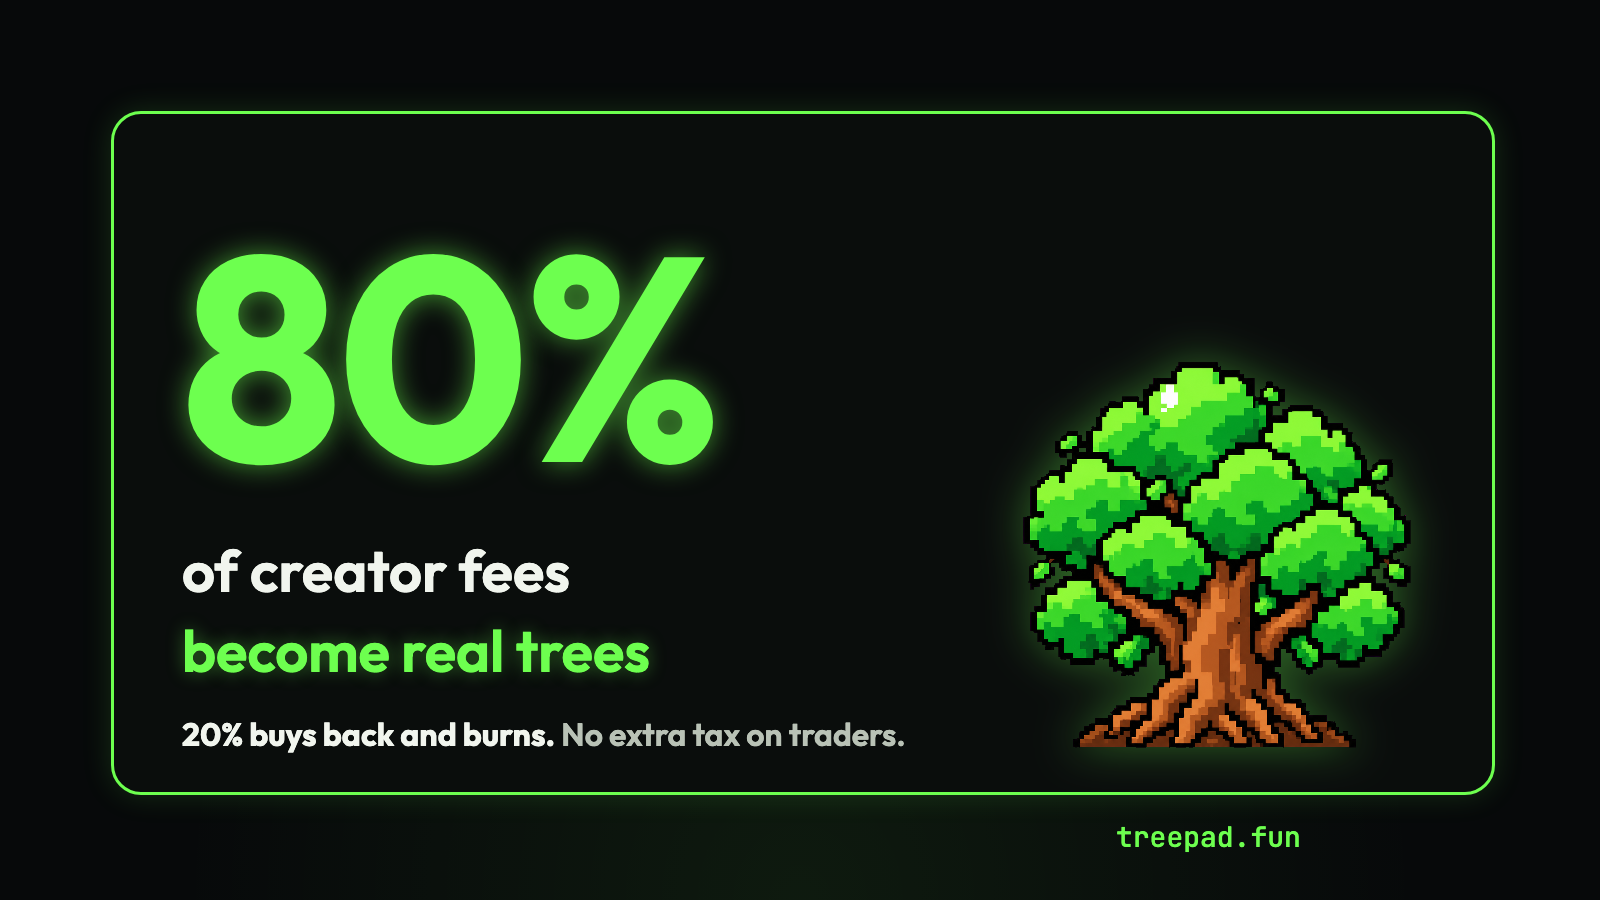
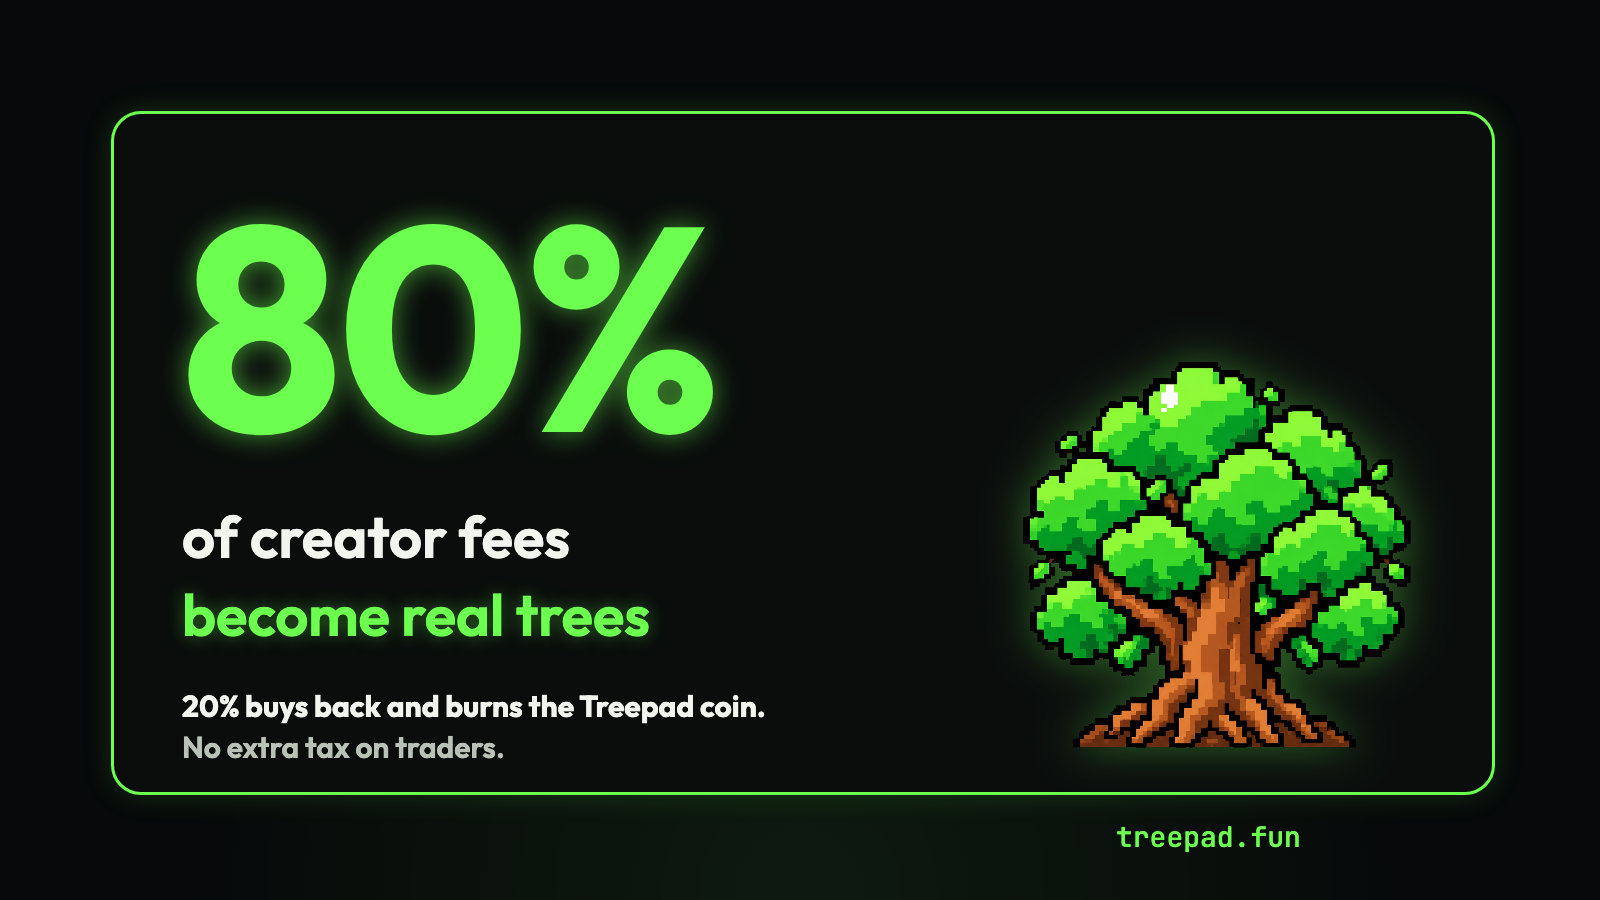
fix: treepad kit says the 20% burns the Treepad coin

Changed region(s): [[0.0938, 0.2178, 0.4688, 0.5289], [0.0938, 0.56, 0.5625, 0.84]]

diff --git a/docs/treepad-launch-kit/index.html b/docs/treepad-launch-kit/index.html
@@ -9,7 +9,7 @@ h1{font-size:32px;margin:8px 0 4px}h2{font-size:22px;margin:32px 0 2px}.when,.to
 figure{overflow:hidden}figure img{width:100%;max-height:300px;object-fit:contain;background:#07090a;display:block;cursor:zoom-in}
 figcaption{display:flex;justify-content:space-between;align-items:center;gap:8px;padding:10px 12px;font-weight:600;font-size:13px;flex-wrap:wrap}small{color:var(--muted);font-weight:400}
 button{font:600 13px inherit;border-radius:9px;padding:7px 12px;cursor:pointer;border:0}.b{background:var(--neon);color:#07090a;align-self:flex-start}.g{background:transparent;color:var(--fg);border:1px solid var(--line)}
-</style></head><body><h1>Treepad launch kit</h1><p class="top">@treepadfun · tap Copy on any tweet or picture. After launch, the proof tweet with the real certificate link is at <a href="https://treepad.fun/launch-proof" target="_blank">treepad.fun/launch-proof</a>. [CA] is the contract address.</p><section><h2>Profile</h2><p class="when">Set up before the first tweet.</p><div class="tw"><div class="card"><div class="lab">Bio (also pump.fun description and DEX Screener info)</div><pre>Coin launchpad on pump.fun. 80% of creator fees plant real trees, 20% buys back and burns. No extra tax on traders. Every trade plants a tree.</pre><button class="b" data-t="Coin launchpad on pump.fun. 80% of creator fees plant real trees, 20% buys back and burns. No extra tax on traders. Every trade plants a tree.">Copy</button></div></div><div class="im"><figure><img src="img/avatar.png" alt="Profile picture" loading="lazy" onclick="window.open(this.src)"><figcaption><span>Profile picture <small>400×400</small></span><span><button class="b ci">Copy image</button> <button class="g dl" data-n="treepad-avatar.png">Download</button></span></figcaption></figure><figure><img src="img/x-header.png" alt="Header" loading="lazy" onclick="window.open(this.src)"><figcaption><span>Header <small>1500×500</small></span><span><button class="b ci">Copy image</button> <button class="g dl" data-n="treepad-x-header.png">Download</button></span></figcaption></figure></div></section><section><h2>Pre-launch</h2><p class="when">Before you go live. Pick one.</p><div class="tw"><div class="card"><div class="lab">Teaser 1</div><pre>Most coins send creator fees to a dev wallet.
+</style></head><body><h1>Treepad launch kit</h1><p class="top">@treepadfun · tap Copy on any tweet or picture. After launch, the proof tweet with the real certificate link is at <a href="https://treepad.fun/launch-proof" target="_blank">treepad.fun/launch-proof</a>. [CA] is the contract address.</p><section><h2>Profile</h2><p class="when">Set up before the first tweet.</p><div class="tw"><div class="card"><div class="lab">Bio (also pump.fun description and DEX Screener info)</div><pre>Coin launchpad on pump.fun. 80% of creator fees plant real trees, 20% buys back and burns our own coin. No extra tax on traders. Every trade plants a tree.</pre><button class="b" data-t="Coin launchpad on pump.fun. 80% of creator fees plant real trees, 20% buys back and burns our own coin. No extra tax on traders. Every trade plants a tree.">Copy</button></div></div><div class="im"><figure><img src="img/avatar.png" alt="Profile picture" loading="lazy" onclick="window.open(this.src)"><figcaption><span>Profile picture <small>400×400</small></span><span><button class="b ci">Copy image</button> <button class="g dl" data-n="treepad-avatar.png">Download</button></span></figcaption></figure><figure><img src="img/x-header.png" alt="Header" loading="lazy" onclick="window.open(this.src)"><figcaption><span>Header <small>1500×500</small></span><span><button class="b ci">Copy image</button> <button class="g dl" data-n="treepad-x-header.png">Download</button></span></figcaption></figure></div></section><section><h2>Pre-launch</h2><p class="when">Before you go live. Pick one.</p><div class="tw"><div class="card"><div class="lab">Teaser 1</div><pre>Most coins send creator fees to a dev wallet.
 
 One launchpad sends them into the ground.
 
@@ -35,39 +35,39 @@ Treepad. Soon.</pre><button class="b" data-t="Mangroves in Kenya. Mahogany in Ni
 
 Treepad. Soon.">Copy</button></div></div><div class="im"><figure><img src="img/prelaunch.png" alt="Teaser" loading="lazy" onclick="window.open(this.src)"><figcaption><span>Teaser <small>1600×900</small></span><span><button class="b ci">Copy image</button> <button class="g dl" data-n="treepad-prelaunch.png">Download</button></span></figcaption></figure><figure><img src="img/other-devs.png" alt="Other launchpads vs Treepad" loading="lazy" onclick="window.open(this.src)"><figcaption><span>Other launchpads vs Treepad <small>1600×900</small></span><span><button class="b ci">Copy image</button> <button class="g dl" data-n="treepad-other-devs.png">Download</button></span></figcaption></figure><figure><img src="img/world-pins.png" alt="Plant anywhere" loading="lazy" onclick="window.open(this.src)"><figcaption><span>Plant anywhere <small>1600×900</small></span><span><button class="b ci">Copy image</button> <button class="g dl" data-n="treepad-world-pins.png">Download</button></span></figcaption></figure></div></section><section><h2>Launch</h2><p class="when">The moment you go live. Pick one.</p><div class="tw"><div class="card"><div class="lab">Launch 1</div><pre>Treepad is live.
 
-Launch a coin on pump.fun through treepad.fun and 80% of its creator fees plant trees. The other 20% buys back and burns. No extra tax on traders.
+Launch a coin on pump.fun through treepad.fun and 80% of its creator fees plant trees. The other 20% buys back and burns the Treepad coin. No extra tax on traders.
 
 Every trade plants a tree.
 
 [CA]</pre><button class="b" data-t="Treepad is live.
 
-Launch a coin on pump.fun through treepad.fun and 80% of its creator fees plant trees. The other 20% buys back and burns. No extra tax on traders.
+Launch a coin on pump.fun through treepad.fun and 80% of its creator fees plant trees. The other 20% buys back and burns the Treepad coin. No extra tax on traders.
 
 Every trade plants a tree.
 
 [CA]">Copy</button></div><div class="card"><div class="lab">Launch 2</div><pre>Every trade plants a tree.
 
-Treepad is live on pump.fun. Pick from 500+ real trees in 22 countries and 80% of your coin's creator fees plant them. 20% buys back and burns. The whole ledger is public.
+Treepad is live on pump.fun. Pick from 500+ real trees in 22 countries and 80% of your coin's creator fees plant them. 20% buys back and burns the Treepad coin. The whole ledger is public.
 
 treepad.fun
 
 [CA]</pre><button class="b" data-t="Every trade plants a tree.
 
-Treepad is live on pump.fun. Pick from 500+ real trees in 22 countries and 80% of your coin's creator fees plant them. 20% buys back and burns. The whole ledger is public.
+Treepad is live on pump.fun. Pick from 500+ real trees in 22 countries and 80% of your coin's creator fees plant them. 20% buys back and burns the Treepad coin. The whole ledger is public.
 
 treepad.fun
 
-[CA]">Copy</button></div></div><div class="im"><figure><img src="img/launch.png" alt="Launch" loading="lazy" onclick="window.open(this.src)"><figcaption><span>Launch <small>1600×900</small></span><span><button class="b ci">Copy image</button> <button class="g dl" data-n="treepad-launch.png">Download</button></span></figcaption></figure><figure><img src="img/launch-square.png" alt="Launch (square)" loading="lazy" onclick="window.open(this.src)"><figcaption><span>Launch (square) <small>1080×1080</small></span><span><button class="b ci">Copy image</button> <button class="g dl" data-n="treepad-launch-square.png">Download</button></span></figcaption></figure></div></section><section><h2>Pinned thread</h2><p class="when">Right after the launch tweet. Post as a thread, pin the first one.</p><div class="tw"><div class="card"><div class="lab">1/</div><pre>1/ Treepad is a coin launchpad on pump.fun where 80% of creator fees plant trees and 20% buys back and burns.
+[CA]">Copy</button></div></div><div class="im"><figure><img src="img/launch.png" alt="Launch" loading="lazy" onclick="window.open(this.src)"><figcaption><span>Launch <small>1600×900</small></span><span><button class="b ci">Copy image</button> <button class="g dl" data-n="treepad-launch.png">Download</button></span></figcaption></figure><figure><img src="img/launch-square.png" alt="Launch (square)" loading="lazy" onclick="window.open(this.src)"><figcaption><span>Launch (square) <small>1080×1080</small></span><span><button class="b ci">Copy image</button> <button class="g dl" data-n="treepad-launch-square.png">Download</button></span></figcaption></figure></div></section><section><h2>Pinned thread</h2><p class="when">Right after the launch tweet. Post as a thread, pin the first one.</p><div class="tw"><div class="card"><div class="lab">1/</div><pre>1/ Treepad is a coin launchpad on pump.fun where 80% of creator fees plant trees and 20% buys back and burns the Treepad coin.
 
 You launch through treepad.fun. Your coin goes live on pump.fun like any other.
 
-Every trade plants a tree.</pre><button class="b" data-t="1/ Treepad is a coin launchpad on pump.fun where 80% of creator fees plant trees and 20% buys back and burns.
+Every trade plants a tree.</pre><button class="b" data-t="1/ Treepad is a coin launchpad on pump.fun where 80% of creator fees plant trees and 20% buys back and burns the Treepad coin.
 
 You launch through treepad.fun. Your coin goes live on pump.fun like any other.
 
-Every trade plants a tree.">Copy</button></div><div class="card"><div class="lab">2/</div><pre>2/ 80% of the coin's creator fees go to planting trees, 20% to buyback &amp; burn. It's pump.fun's normal creator fee, so traders pay no extra tax.
+Every trade plants a tree.">Copy</button></div><div class="card"><div class="lab">2/</div><pre>2/ 80% of the coin's creator fees go to planting trees, 20% to buying back and burning the Treepad coin. It's pump.fun's normal creator fee, so traders pay no extra tax.
 
-Fees reach the tree wallet within seconds. A tree is ordered as soon as fees cover one.</pre><button class="b" data-t="2/ 80% of the coin's creator fees go to planting trees, 20% to buyback &amp; burn. It's pump.fun's normal creator fee, so traders pay no extra tax.
+Fees reach the tree wallet within seconds. A tree is ordered as soon as fees cover one.</pre><button class="b" data-t="2/ 80% of the coin's creator fees go to planting trees, 20% to buying back and burning the Treepad coin. It's pump.fun's normal creator fee, so traders pay no extra tax.
 
 Fees reach the tree wallet within seconds. A tree is ordered as soon as fees cover one.">Copy</button></div><div class="card"><div class="lab">3/</div><pre>3/ You pick the tree. 500+ species in 22 countries: mangroves in Kenya, mahogany in Nicaragua, oaks in Spain, rainforest in Australia.
 
